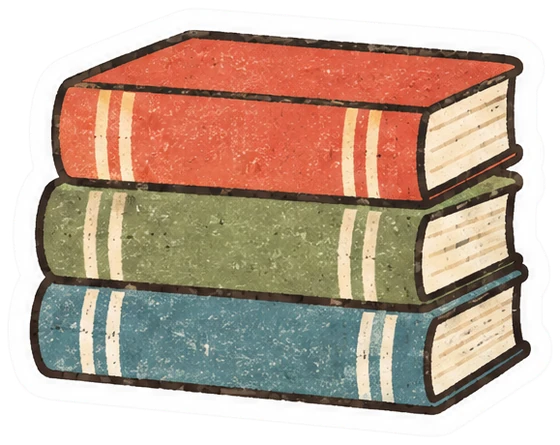
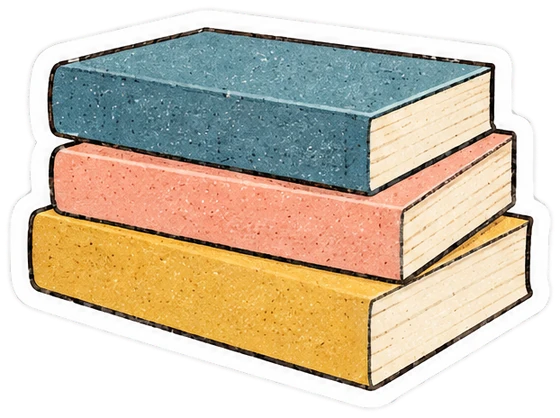
Nine stickers redrawn with a modern look
Laptop, tablet and watch with dark glowing screens (original aurora wallpapers, activity rings), aluminium headphones, a podcast mic on a boom arm, a running shoe, a leather shoulder bag, plain-covered books, and a person looking at a large gestural painting in a gallery. Same names, so stickers already on a page show the new drawing.

diff --git a/src/outlines.ts b/src/outlines.ts
@@ -1,4 +1,4 @@
 /* Made by scripts/sticker-outlines.py from assets/stickers: each sticker's width over height, and for 24 bands
    from top to bottom where it starts and ends across (fractions of its width), null where the band is empty.
    The words on a page wrap around this outline. */
-export const OUTLINES: Record<string, { a: number; rows: ([number, number] | null)[] }> = {"artwall":{"a":0.845,"rows":[[0.755,0.975],[0.055,0.983],[0.019,0.983],[0.017,0.983],[0.017,0.983],[0.017,0.983],[0.017,0.983],[0.017,0.983],[0.017,0.983],[0.017,0.983],[0.019,0.983],[0.019,0.983],[0.017,0.983],[0.019,0.983],[0.017,0.983],[0.017,0.983],[0.017,0.983],[0.017,0.983],[0.019,0.983],[0.019,0.983],[0.017,0.983],[0.019,0.983],[0.063,0.983],[0.474,0.977]]},"avotoast":{"a":1.239,"rows":[[0.532,0.704],[0.436,0.764],[0.314,0.793],[0.257,0.802],[0.209,0.836],[0.157,0.871],[0.13,0.895],[0.093,0.916],[0.057,0.934],[0.038,0.959],[0.029,0.977],[0.023,0.986],[0.018,0.988],[0.012,0.988],[0.012,0.984],[0.014,0.98],[0.023,0.975],[0.043,0.961],[0.073,0.921],[0.089,0.859],[0.107,0.732],[0.139,0.636],[0.195,0.539],[0.25,0.439]]},"bicycle":{"a":1.356,"rows":[[0.573,0.698],[0.504,0.716],[0.495,0.882],[0.495,0.884],[0.289,0.884],[0.241,0.879],[0.234,0.873],[0.234,0.868],[0.114,0.864],[0.071,0.893],[0.046,0.93],[0.027,0.952],[0.014,0.968],[0.011,0.98],[0.014,0.988],[0.011,0.989],[0.011,0.989],[0.011,0.989],[0.016,0.984],[0.023,0.977],[0.038,0.962],[0.059,0.945],[0.088,0.916],[0.139,0.866]]},"books":{"a":1.258,"rows":[[0.286,0.571],[0.198,0.934],[0.12,0.97],[0.075,0.973],[0.061,0.971],[0.054,0.959],[0.052,0.959],[0.052,0.971],[0.054,0.971],[0.039,0.973],[0.029,0.973],[0.023,0.962],[0.023,0.962],[0.023,0.979],[0.027,0.982],[0.021,0.982],[0.014,0.97],[0.012,0.98],[0.014,0.986],[0.016,0.986],[0.025,0.973],[0.045,0.927],[0.216,0.879],[0.571,0.827]]},"bust":{"a":0.629,"rows":[[0.33,0.733],[0.222,0.832],[0.151,0.895],[0.102,0.94],[0.051,0.974],[0.04,0.977],[0.04,0.974],[0.023,0.963],[0.023,0.96],[0.037,0.906],[0.062,0.875],[0.094,0.827],[0.119,0.798],[0.179,0.909],[0.222,0.96],[0.151,0.966],[0.116,0.963],[0.114,0.938],[0.119,0.892],[0.156,0.875],[0.168,0.875],[0.168,0.875],[0.168,0.875],[0.19,0.841]]},"cap":{"a":1.261,"rows":[[0.509,0.621],[0.427,0.746],[0.35,0.811],[0.302,0.854],[0.27,0.884],[0.245,0.911],[0.225,0.93],[0.211,0.948],[0.2,0.959],[0.193,0.97],[0.186,0.975],[0.18,0.979],[0.177,0.982],[0.175,0.986],[0.141,0.986],[0.105,0.986],[0.075,0.98],[0.046,0.932],[0.021,0.779],[0.014,0.757],[0.014,0.73],[0.021,0.702],[0.368,0.666],[0.434,0.614]]},"chunky":{"a":1.569,"rows":[[0.468,0.827],[0.438,0.854],[0.414,0.866],[0.389,0.871],[0.355,0.873],[0.318,0.88],[0.286,0.888],[0.245,0.898],[0.216,0.902],[0.152,0.921],[0.091,0.93],[0.055,0.952],[0.036,0.968],[0.02,0.979],[0.014,0.986],[0.012,0.988],[0.012,0.988],[0.016,0.986],[0.027,0.977],[0.048,0.957],[0.086,0.929],[0.141,0.88],[0.196,0.777],[0.296,0.532]]},"concert":{"a":0.786,"rows":[[0.405,0.866],[0.364,0.895],[0.355,0.902],[0.355,0.905],[0.355,0.907],[0.314,0.916],[0.295,0.964],[0.275,0.97],[0.245,0.966],[0.232,0.98],[0.218,0.984],[0.193,0.982],[0.18,0.98],[0.177,0.98],[0.18,0.977],[0.177,0.977],[0.159,0.961],[0.105,0.9],[0.073,0.82],[0.041,0.666],[0.016,0.607],[0.016,0.539],[0.05,0.532],[0.277,0.509]]},"controller":{"a":1.462,"rows":[[0.239,0.766],[0.188,0.827],[0.168,0.843],[0.134,0.871],[0.111,0.895],[0.096,0.911],[0.084,0.923],[0.075,0.932],[0.066,0.941],[0.057,0.948],[0.048,0.955],[0.043,0.962],[0.034,0.968],[0.029,0.973],[0.023,0.979],[0.018,0.982],[0.014,0.986],[0.012,0.988],[0.011,0.988],[0.012,0.986],[0.016,0.98],[0.025,0.971],[0.041,0.954],[0.073,0.92]]},"croissant":{"a":1.44,"rows":[[0.459,0.625],[0.391,0.679],[0.35,0.709],[0.296,0.723],[0.25,0.77],[0.211,0.793],[0.177,0.838],[0.152,0.857],[0.123,0.871],[0.095,0.904],[0.071,0.921],[0.055,0.932],[0.045,0.955],[0.041,0.971],[0.041,0.982],[0.025,0.988],[0.016,0.988],[0.014,0.986],[0.014,0.975],[0.02,0.957],[0.034,0.911],[0.043,0.516],[0.064,0.275],[0.104,0.241]]},"earbuds":{"a":1.047,"rows":[[0.242,0.608],[0.162,0.824],[0.117,0.901],[0.097,0.937],[0.085,0.962],[0.083,0.976],[0.083,0.984],[0.089,0.984],[0.069,0.984],[0.03,0.978],[0.018,0.964],[0.016,0.941],[0.016,0.935],[0.016,0.935],[0.018,0.933],[0.02,0.931],[0.022,0.929],[0.022,0.927],[0.032,0.923],[0.046,0.915],[0.075,0.903],[0.117,0.881],[0.224,0.846],[0.446,0.786]]},"egg":{"a":1.067,"rows":[[0.366,0.561],[0.304,0.704],[0.236,0.734],[0.195,0.841],[0.127,0.888],[0.093,0.912],[0.075,0.921],[0.059,0.936],[0.046,0.959],[0.039,0.968],[0.023,0.973],[0.016,0.984],[0.014,0.986],[0.02,0.986],[0.034,0.977],[0.045,0.964],[0.046,0.941],[0.057,0.9],[0.077,0.882],[0.104,0.862],[0.123,0.834],[0.164,0.762],[0.246,0.705],[0.395,0.584]]},"gallery":{"a":1.637,"rows":[[0.184,0.391],[0.121,0.475],[0.096,0.536],[0.082,0.58],[0.079,0.62],[0.079,0.654],[0.08,0.684],[0.084,0.727],[0.086,0.793],[0.088,0.921],[0.062,0.93],[0.039,0.932],[0.03,0.93],[0.023,0.93],[0.016,0.932],[0.012,0.954],[0.012,0.973],[0.011,0.986],[0.012,0.989],[0.016,0.989],[0.014,0.989],[0.018,0.986],[0.029,0.984],[0.093,0.466]]},"headset":{"a":0.921,"rows":[[0.395,0.694],[0.31,0.775],[0.252,0.828],[0.209,0.862],[0.178,0.888],[0.153,0.909],[0.132,0.922],[0.118,0.932],[0.105,0.938],[0.101,0.942],[0.079,0.942],[0.037,0.94],[0.021,0.961],[0.014,0.979],[0.014,0.986],[0.017,0.986],[0.023,0.983],[0.033,0.971],[0.047,0.957],[0.062,0.938],[0.081,0.917],[0.11,0.89],[0.153,0.857],[0.572,0.802]]},"icedlatte":{"a":0.666,"rows":[[0.501,0.694],[0.483,0.705],[0.469,0.702],[0.456,0.686],[0.343,0.673],[0.105,0.898],[0.04,0.96],[0.021,0.976],[0.019,0.979],[0.021,0.973],[0.078,0.914],[0.086,0.906],[0.094,0.898],[0.102,0.89],[0.11,0.879],[0.118,0.871],[0.126,0.863],[0.134,0.855],[0.142,0.845],[0.15,0.836],[0.158,0.828],[0.172,0.818],[0.185,0.802],[0.241,0.735]]},"key":{"a":0.786,"rows":[[0.629,0.872],[0.554,0.927],[0.515,0.957],[0.43,0.975],[0.352,0.979],[0.311,0.982],[0.279,0.975],[0.261,0.961],[0.254,0.938],[0.254,0.902],[0.254,0.84],[0.247,0.831],[0.236,0.808],[0.201,0.767],[0.169,0.673],[0.149,0.551],[0.119,0.481],[0.085,0.451],[0.048,0.4],[0.021,0.387],[0.018,0.35],[0.021,0.336],[0.023,0.293],[0.043,0.252]]},"lamp":{"a":0.855,"rows":[[0.516,0.681],[0.474,0.714],[0.395,0.833],[0.338,0.912],[0.269,0.958],[0.198,0.983],[0.134,0.985],[0.04,0.979],[0.017,0.95],[0.015,0.896],[0.021,0.825],[0.069,0.733],[0.094,0.28],[0.117,0.301],[0.138,0.326],[0.165,0.347],[0.188,0.372],[0.211,0.443],[0.061,0.589],[0.027,0.614],[0.023,0.616],[0.023,0.616],[0.029,0.608],[0.077,0.545]]},"laptop":{"a":1.22,"rows":[[0.529,0.72],[0.32,0.734],[0.118,0.741],[0.023,0.745],[0.012,0.75],[0.012,0.754],[0.014,0.759],[0.021,0.764],[0.027,0.768],[0.034,0.773],[0.039,0.779],[0.045,0.784],[0.052,0.795],[0.059,0.839],[0.064,0.884],[0.071,0.932],[0.077,0.975],[0.084,0.988],[0.091,0.988],[0.121,0.98],[0.154,0.916],[0.186,0.754],[0.216,0.588],[0.248,0.425]]},"matcha":{"a":0.616,"rows":[[0.504,0.699],[0.484,0.71],[0.47,0.704],[0.452,0.69],[0.197,0.82],[0.064,0.936],[0.041,0.959],[0.02,0.98],[0.02,0.977],[0.052,0.933],[0.078,0.919],[0.084,0.91],[0.093,0.901],[0.099,0.893],[0.104,0.887],[0.113,0.878],[0.119,0.87],[0.125,0.864],[0.133,0.855],[0.139,0.846],[0.145,0.841],[0.157,0.823],[0.174,0.812],[0.232,0.748]]},"mic":{"a":0.607,"rows":[[0.374,0.715],[0.285,0.794],[0.226,0.841],[0.194,0.865],[0.185,0.876],[0.182,0.876],[0.185,0.871],[0.2,0.859],[0.188,0.826],[0.165,0.762],[0.144,0.65],[0.121,0.597],[0.097,0.565],[0.079,0.529],[0.056,0.497],[0.035,0.885],[0.024,0.947],[0.024,0.974],[0.035,0.979],[0.038,0.976],[0.047,0.941],[0.05,0.553],[0.071,0.506],[0.124,0.432]]},"mirrorless":{"a":1.451,"rows":[[0.136,0.87],[0.077,0.952],[0.039,0.973],[0.027,0.98],[0.016,0.982],[0.012,0.984],[0.014,0.984],[0.014,0.986],[0.014,0.986],[0.014,0.986],[0.014,0.986],[0.014,0.986],[0.014,0.986],[0.014,0.986],[0.014,0.986],[0.014,0.986],[0.014,0.988],[0.014,0.986],[0.014,0.986],[0.014,0.982],[0.018,0.97],[0.029,0.929],[0.055,0.789],[0.107,0.305]]},"phone":{"a":0.736,"rows":[[0.339,0.639],[0.288,0.876],[0.268,0.949],[0.251,0.973],[0.234,0.98],[0.217,0.978],[0.2,0.966],[0.185,0.954],[0.168,0.941],[0.151,0.927],[0.137,0.912],[0.124,0.9],[0.107,0.883],[0.095,0.873],[0.078,0.859],[0.063,0.846],[0.049,0.832],[0.032,0.82],[0.022,0.805],[0.02,0.793],[0.027,0.778],[0.054,0.763],[0.161,0.746],[0.395,0.705]]},"plant":{"a":0.941,"rows":[[0.387,0.562],[0.349,0.626],[0.334,0.687],[0.167,0.858],[0.104,0.909],[0.063,0.935],[0.03,0.953],[0.013,0.964],[0.015,0.973],[0.11,0.979],[0.11,0.985],[0.112,0.987],[0.108,0.983],[0.108,0.844],[0.125,0.841],[0.199,0.835],[0.209,0.814],[0.241,0.791],[0.249,0.782],[0.258,0.77],[0.268,0.761],[0.277,0.751],[0.288,0.736],[0.332,0.681]]},"popcorn":{"a":1.057,"rows":[[0.243,0.396],[0.209,0.53],[0.162,0.57],[0.105,0.6],[0.068,0.655],[0.041,0.67],[0.014,0.688],[0.014,0.691],[0.016,0.689],[0.02,0.68],[0.027,0.889],[0.03,0.929],[0.036,0.934],[0.043,0.948],[0.046,0.95],[0.052,0.961],[0.057,0.971],[0.062,0.984],[0.068,0.986],[0.075,0.98],[0.08,0.959],[0.088,0.87],[0.136,0.764],[0.255,0.659]]},"ramen":{"a":1.204,"rows":[[0.295,0.393],[0.221,0.582],[0.154,0.966],[0.104,0.979],[0.093,0.988],[0.071,0.988],[0.025,0.982],[0.014,0.889],[0.012,0.886],[0.016,0.888],[0.046,0.888],[0.052,0.886],[0.057,0.88],[0.064,0.871],[0.073,0.859],[0.084,0.846],[0.098,0.83],[0.116,0.811],[0.138,0.786],[0.168,0.754],[0.207,0.714],[0.259,0.661],[0.289,0.627],[0.332,0.582]]},"scooter":{"a":0.952,"rows":[[0.169,0.415],[0.158,0.591],[0.159,0.604],[0.188,0.604],[0.272,0.589],[0.261,0.403],[0.25,0.392],[0.238,0.381],[0.229,0.371],[0.218,0.36],[0.206,0.349],[0.197,0.34],[0.178,0.326],[0.165,0.328],[0.152,0.936],[0.141,0.974],[0.088,0.985],[0.051,0.985],[0.026,0.985],[0.015,0.985],[0.013,0.979],[0.015,0.957],[0.03,0.916],[0.066,0.24]]},"suitcase":{"a":0.625,"rows":[[0.314,0.743],[0.294,0.76],[0.291,0.76],[0.303,0.751],[0.303,0.746],[0.137,0.883],[0.06,0.943],[0.034,0.963],[0.026,0.966],[0.026,0.969],[0.023,0.969],[0.023,0.969],[0.023,0.969],[0.023,0.969],[0.023,0.969],[0.023,0.969],[0.026,0.969],[0.023,0.969],[0.023,0.969],[0.026,0.966],[0.023,0.98],[0.023,0.98],[0.034,0.969],[0.594,0.794]]},"sunglasses":{"a":1.958,"rows":[[0.218,0.37],[0.059,0.429],[0.023,0.459],[0.014,0.482],[0.012,0.504],[0.012,0.955],[0.012,0.979],[0.014,0.986],[0.021,0.988],[0.039,0.988],[0.043,0.984],[0.046,0.98],[0.05,0.975],[0.055,0.966],[0.061,0.884],[0.068,0.855],[0.077,0.85],[0.091,0.845],[0.112,0.838],[0.146,0.83],[0.218,0.82],[0.505,0.804],[0.538,0.78],[0.596,0.732]]},"tablet":{"a":0.984,"rows":[[0.178,0.771],[0.158,0.855],[0.149,0.864],[0.142,0.866],[0.132,0.976],[0.127,0.985],[0.118,0.987],[0.111,0.982],[0.102,0.975],[0.094,0.966],[0.087,0.958],[0.078,0.951],[0.073,0.944],[0.065,0.936],[0.056,0.929],[0.047,0.922],[0.04,0.915],[0.033,0.906],[0.024,0.898],[0.016,0.891],[0.013,0.882],[0.016,0.866],[0.042,0.844],[0.379,0.731]]},"takeaway":{"a":0.769,"rows":[[0.228,0.797],[0.131,0.881],[0.109,0.898],[0.061,0.947],[0.034,0.969],[0.022,0.981],[0.019,0.981],[0.027,0.969],[0.08,0.92],[0.065,0.932],[0.065,0.932],[0.068,0.927],[0.075,0.923],[0.08,0.915],[0.087,0.91],[0.094,0.903],[0.099,0.898],[0.104,0.891],[0.114,0.881],[0.15,0.85],[0.16,0.843],[0.165,0.835],[0.184,0.814],[0.266,0.731]]},"tennis":{"a":0.964,"rows":[[0.585,0.844],[0.506,0.907],[0.446,0.943],[0.409,0.965],[0.38,0.978],[0.354,0.983],[0.335,0.983],[0.324,0.981],[0.317,0.972],[0.313,0.961],[0.309,0.943],[0.302,0.919],[0.291,0.883],[0.272,0.841],[0.237,0.852],[0.196,0.893],[0.159,0.911],[0.12,0.919],[0.085,0.919],[0.031,0.913],[0.013,0.894],[0.015,0.856],[0.028,0.219],[0.074,0.198]]},"tote":{"a":0.723,"rows":[[0.393,0.63],[0.346,0.679],[0.316,0.706],[0.294,0.726],[0.272,0.746],[0.252,0.765],[0.24,0.778],[0.084,0.884],[0.059,0.965],[0.057,0.97],[0.057,0.97],[0.059,0.97],[0.059,0.965],[0.057,0.963],[0.047,0.965],[0.04,0.965],[0.035,0.968],[0.03,0.97],[0.025,0.973],[0.017,0.978],[0.017,0.983],[0.025,0.983],[0.069,0.97],[0.449,0.926]]},"tumbler":{"a":0.6,"rows":[[0.301,0.503],[0.289,0.509],[0.283,0.506],[0.143,0.619],[0.033,0.708],[0.024,0.714],[0.021,0.902],[0.021,0.958],[0.021,0.976],[0.021,0.976],[0.021,0.976],[0.021,0.976],[0.021,0.976],[0.024,0.976],[0.024,0.976],[0.027,0.961],[0.03,0.917],[0.045,0.783],[0.08,0.67],[0.083,0.664],[0.089,0.658],[0.095,0.649],[0.104,0.643],[0.146,0.589]]},"watch":{"a":0.816,"rows":[[0.372,0.766],[0.293,0.821],[0.247,0.853],[0.21,0.875],[0.133,0.897],[0.077,0.919],[0.05,0.941],[0.037,0.963],[0.033,0.98],[0.031,0.982],[0.028,0.98],[0.024,0.965],[0.022,0.954],[0.02,0.954],[0.018,0.952],[0.018,0.947],[0.024,0.941],[0.039,0.928],[0.079,0.917],[0.16,0.899],[0.186,0.877],[0.219,0.849],[0.258,0.812],[0.326,0.746]]},"window":{"a":0.812,"rows":[[0.27,0.76],[0.171,0.848],[0.114,0.897],[0.081,0.927],[0.055,0.949],[0.037,0.963],[0.029,0.971],[0.022,0.976],[0.018,0.98],[0.018,0.982],[0.015,0.982],[0.015,0.982],[0.015,0.982],[0.015,0.982],[0.018,0.982],[0.018,0.982],[0.02,0.98],[0.024,0.978],[0.031,0.969],[0.042,0.958],[0.059,0.938],[0.088,0.908],[0.134,0.862],[0.222,0.776]]},"yogamat":{"a":1.478,"rows":[[0.482,0.596],[0.438,0.638],[0.409,0.659],[0.384,0.673],[0.362,0.688],[0.339,0.702],[0.318,0.716],[0.296,0.921],[0.275,0.948],[0.123,0.964],[0.066,0.975],[0.041,0.982],[0.029,0.986],[0.018,0.986],[0.014,0.988],[0.012,0.986],[0.012,0.98],[0.014,0.971],[0.018,0.957],[0.025,0.921],[0.034,0.802],[0.048,0.629],[0.068,0.441],[0.1,0.252]]}};
+export const OUTLINES: Record<string, { a: number; rows: ([number, number] | null)[] }> = {"artwall":{"a":0.802,"rows":[[0.318,0.955],[0.053,0.958],[0.049,0.958],[0.049,0.96],[0.049,0.958],[0.049,0.96],[0.047,0.958],[0.047,0.96],[0.047,0.96],[0.047,0.958],[0.047,0.96],[0.047,0.96],[0.047,0.96],[0.047,0.96],[0.047,0.96],[0.042,0.96],[0.02,0.969],[0.018,0.982],[0.016,0.984],[0.016,0.984],[0.013,0.984],[0.013,0.982],[0.013,0.982],[0.027,0.964]]},"avotoast":{"a":1.239,"rows":[[0.532,0.704],[0.436,0.764],[0.314,0.793],[0.257,0.802],[0.209,0.836],[0.157,0.871],[0.13,0.895],[0.093,0.916],[0.057,0.934],[0.038,0.959],[0.029,0.977],[0.023,0.986],[0.018,0.988],[0.012,0.988],[0.012,0.984],[0.014,0.98],[0.023,0.975],[0.043,0.961],[0.073,0.921],[0.089,0.859],[0.107,0.732],[0.139,0.636],[0.195,0.539],[0.25,0.439]]},"bicycle":{"a":1.356,"rows":[[0.573,0.698],[0.504,0.716],[0.495,0.882],[0.495,0.884],[0.289,0.884],[0.241,0.879],[0.234,0.873],[0.234,0.868],[0.114,0.864],[0.071,0.893],[0.046,0.93],[0.027,0.952],[0.014,0.968],[0.011,0.98],[0.014,0.988],[0.011,0.989],[0.011,0.989],[0.011,0.989],[0.016,0.984],[0.023,0.977],[0.038,0.962],[0.059,0.945],[0.088,0.916],[0.139,0.866]]},"books":{"a":1.34,"rows":[[0.289,0.511],[0.162,0.743],[0.07,0.909],[0.054,0.92],[0.048,0.92],[0.046,0.918],[0.046,0.95],[0.05,0.957],[0.054,0.959],[0.05,0.959],[0.05,0.957],[0.02,0.982],[0.012,0.988],[0.012,0.988],[0.012,0.984],[0.012,0.982],[0.014,0.986],[0.025,0.986],[0.075,0.966],[0.171,0.916],[0.275,0.862],[0.377,0.814],[0.486,0.761],[0.589,0.711]]},"bust":{"a":0.629,"rows":[[0.33,0.733],[0.222,0.832],[0.151,0.895],[0.102,0.94],[0.051,0.974],[0.04,0.977],[0.04,0.974],[0.023,0.963],[0.023,0.96],[0.037,0.906],[0.062,0.875],[0.094,0.827],[0.119,0.798],[0.179,0.909],[0.222,0.96],[0.151,0.966],[0.116,0.963],[0.114,0.938],[0.119,0.892],[0.156,0.875],[0.168,0.875],[0.168,0.875],[0.168,0.875],[0.19,0.841]]},"cap":{"a":1.261,"rows":[[0.509,0.621],[0.427,0.746],[0.35,0.811],[0.302,0.854],[0.27,0.884],[0.245,0.911],[0.225,0.93],[0.211,0.948],[0.2,0.959],[0.193,0.97],[0.186,0.975],[0.18,0.979],[0.177,0.982],[0.175,0.986],[0.141,0.986],[0.105,0.986],[0.075,0.98],[0.046,0.932],[0.021,0.779],[0.014,0.757],[0.014,0.73],[0.021,0.702],[0.368,0.666],[0.434,0.614]]},"chunky":{"a":1.755,"rows":[[0.548,0.618],[0.523,0.643],[0.502,0.884],[0.473,0.896],[0.441,0.9],[0.407,0.902],[0.366,0.905],[0.325,0.914],[0.275,0.921],[0.193,0.929],[0.061,0.93],[0.032,0.941],[0.02,0.954],[0.012,0.968],[0.012,0.982],[0.012,0.988],[0.018,0.988],[0.029,0.988],[0.048,0.98],[0.073,0.97],[0.107,0.955],[0.15,0.93],[0.198,0.898],[0.271,0.832]]},"concert":{"a":0.786,"rows":[[0.405,0.866],[0.364,0.895],[0.355,0.902],[0.355,0.905],[0.355,0.907],[0.314,0.916],[0.295,0.964],[0.275,0.97],[0.245,0.966],[0.232,0.98],[0.218,0.984],[0.193,0.982],[0.18,0.98],[0.177,0.98],[0.18,0.977],[0.177,0.977],[0.159,0.961],[0.105,0.9],[0.073,0.82],[0.041,0.666],[0.016,0.607],[0.016,0.539],[0.05,0.532],[0.277,0.509]]},"controller":{"a":1.462,"rows":[[0.239,0.766],[0.188,0.827],[0.168,0.843],[0.134,0.871],[0.111,0.895],[0.096,0.911],[0.084,0.923],[0.075,0.932],[0.066,0.941],[0.057,0.948],[0.048,0.955],[0.043,0.962],[0.034,0.968],[0.029,0.973],[0.023,0.979],[0.018,0.982],[0.014,0.986],[0.012,0.988],[0.011,0.988],[0.012,0.986],[0.016,0.98],[0.025,0.971],[0.041,0.954],[0.073,0.92]]},"croissant":{"a":1.44,"rows":[[0.459,0.625],[0.391,0.679],[0.35,0.709],[0.296,0.723],[0.25,0.77],[0.211,0.793],[0.177,0.838],[0.152,0.857],[0.123,0.871],[0.095,0.904],[0.071,0.921],[0.055,0.932],[0.045,0.955],[0.041,0.971],[0.041,0.982],[0.025,0.988],[0.016,0.988],[0.014,0.986],[0.014,0.975],[0.02,0.957],[0.034,0.911],[0.043,0.516],[0.064,0.275],[0.104,0.241]]},"earbuds":{"a":1.047,"rows":[[0.242,0.608],[0.162,0.824],[0.117,0.901],[0.097,0.937],[0.085,0.962],[0.083,0.976],[0.083,0.984],[0.089,0.984],[0.069,0.984],[0.03,0.978],[0.018,0.964],[0.016,0.941],[0.016,0.935],[0.016,0.935],[0.018,0.933],[0.02,0.931],[0.022,0.929],[0.022,0.927],[0.032,0.923],[0.046,0.915],[0.075,0.903],[0.117,0.881],[0.224,0.846],[0.446,0.786]]},"egg":{"a":1.067,"rows":[[0.366,0.561],[0.304,0.704],[0.236,0.734],[0.195,0.841],[0.127,0.888],[0.093,0.912],[0.075,0.921],[0.059,0.936],[0.046,0.959],[0.039,0.968],[0.023,0.973],[0.016,0.984],[0.014,0.986],[0.02,0.986],[0.034,0.977],[0.045,0.964],[0.046,0.941],[0.057,0.9],[0.077,0.882],[0.104,0.862],[0.123,0.834],[0.164,0.762],[0.246,0.705],[0.395,0.584]]},"gallery":{"a":1.637,"rows":[[0.184,0.391],[0.121,0.475],[0.096,0.536],[0.082,0.58],[0.079,0.62],[0.079,0.654],[0.08,0.684],[0.084,0.727],[0.086,0.793],[0.088,0.921],[0.062,0.93],[0.039,0.932],[0.03,0.93],[0.023,0.93],[0.016,0.932],[0.012,0.954],[0.012,0.973],[0.011,0.986],[0.012,0.989],[0.016,0.989],[0.014,0.989],[0.018,0.986],[0.029,0.984],[0.093,0.466]]},"headset":{"a":0.911,"rows":[[0.353,0.696],[0.271,0.769],[0.22,0.816],[0.18,0.849],[0.149,0.876],[0.124,0.892],[0.116,0.902],[0.108,0.916],[0.092,0.927],[0.082,0.933],[0.078,0.933],[0.075,0.931],[0.033,0.969],[0.016,0.984],[0.014,0.986],[0.016,0.982],[0.025,0.973],[0.039,0.961],[0.057,0.943],[0.078,0.925],[0.104,0.906],[0.133,0.882],[0.175,0.851],[0.239,0.798]]},"icedlatte":{"a":0.666,"rows":[[0.501,0.694],[0.483,0.705],[0.469,0.702],[0.456,0.686],[0.343,0.673],[0.105,0.898],[0.04,0.96],[0.021,0.976],[0.019,0.979],[0.021,0.973],[0.078,0.914],[0.086,0.906],[0.094,0.898],[0.102,0.89],[0.11,0.879],[0.118,0.871],[0.126,0.863],[0.134,0.855],[0.142,0.845],[0.15,0.836],[0.158,0.828],[0.172,0.818],[0.185,0.802],[0.241,0.735]]},"key":{"a":0.786,"rows":[[0.629,0.872],[0.554,0.927],[0.515,0.957],[0.43,0.975],[0.352,0.979],[0.311,0.982],[0.279,0.975],[0.261,0.961],[0.254,0.938],[0.254,0.902],[0.254,0.84],[0.247,0.831],[0.236,0.808],[0.201,0.767],[0.169,0.673],[0.149,0.551],[0.119,0.481],[0.085,0.451],[0.048,0.4],[0.021,0.387],[0.018,0.35],[0.021,0.336],[0.023,0.293],[0.043,0.252]]},"lamp":{"a":0.855,"rows":[[0.516,0.681],[0.474,0.714],[0.395,0.833],[0.338,0.912],[0.269,0.958],[0.198,0.983],[0.134,0.985],[0.04,0.979],[0.017,0.95],[0.015,0.896],[0.021,0.825],[0.069,0.733],[0.094,0.28],[0.117,0.301],[0.138,0.326],[0.165,0.347],[0.188,0.372],[0.211,0.443],[0.061,0.589],[0.027,0.614],[0.023,0.616],[0.023,0.616],[0.029,0.608],[0.077,0.545]]},"laptop":{"a":1.353,"rows":[[0.396,0.641],[0.084,0.654],[0.02,0.659],[0.012,0.664],[0.012,0.671],[0.016,0.677],[0.021,0.684],[0.025,0.689],[0.03,0.695],[0.034,0.7],[0.039,0.707],[0.045,0.712],[0.05,0.718],[0.055,0.725],[0.059,0.798],[0.064,0.888],[0.068,0.964],[0.073,0.988],[0.077,0.989],[0.093,0.986],[0.143,0.911],[0.191,0.759],[0.245,0.607],[0.295,0.457]]},"matcha":{"a":0.616,"rows":[[0.504,0.699],[0.484,0.71],[0.47,0.704],[0.452,0.69],[0.197,0.82],[0.064,0.936],[0.041,0.959],[0.02,0.98],[0.02,0.977],[0.052,0.933],[0.078,0.919],[0.084,0.91],[0.093,0.901],[0.099,0.893],[0.104,0.887],[0.113,0.878],[0.119,0.87],[0.125,0.864],[0.133,0.855],[0.139,0.846],[0.145,0.841],[0.157,0.823],[0.174,0.812],[0.232,0.748]]},"mic":{"a":0.839,"rows":[[0.098,0.911],[0.062,0.974],[0.055,0.985],[0.055,0.985],[0.055,0.974],[0.055,0.957],[0.049,0.943],[0.049,0.93],[0.019,0.915],[0.017,0.902],[0.017,0.887],[0.019,0.872],[0.051,0.857],[0.053,0.843],[0.072,0.836],[0.094,0.845],[0.174,0.857],[0.532,0.857],[0.543,0.855],[0.551,0.855],[0.545,0.847],[0.547,0.789],[0.587,0.766],[0.594,0.757]]},"mirrorless":{"a":1.451,"rows":[[0.136,0.87],[0.077,0.952],[0.039,0.973],[0.027,0.98],[0.016,0.982],[0.012,0.984],[0.014,0.984],[0.014,0.986],[0.014,0.986],[0.014,0.986],[0.014,0.986],[0.014,0.986],[0.014,0.986],[0.014,0.986],[0.014,0.986],[0.014,0.986],[0.014,0.988],[0.014,0.986],[0.014,0.986],[0.014,0.982],[0.018,0.97],[0.029,0.929],[0.055,0.789],[0.107,0.305]]},"phone":{"a":0.736,"rows":[[0.339,0.639],[0.288,0.876],[0.268,0.949],[0.251,0.973],[0.234,0.98],[0.217,0.978],[0.2,0.966],[0.185,0.954],[0.168,0.941],[0.151,0.927],[0.137,0.912],[0.124,0.9],[0.107,0.883],[0.095,0.873],[0.078,0.859],[0.063,0.846],[0.049,0.832],[0.032,0.82],[0.022,0.805],[0.02,0.793],[0.027,0.778],[0.054,0.763],[0.161,0.746],[0.395,0.705]]},"plant":{"a":0.941,"rows":[[0.387,0.562],[0.349,0.626],[0.334,0.687],[0.167,0.858],[0.104,0.909],[0.063,0.935],[0.03,0.953],[0.013,0.964],[0.015,0.973],[0.11,0.979],[0.11,0.985],[0.112,0.987],[0.108,0.983],[0.108,0.844],[0.125,0.841],[0.199,0.835],[0.209,0.814],[0.241,0.791],[0.249,0.782],[0.258,0.77],[0.268,0.761],[0.277,0.751],[0.288,0.736],[0.332,0.681]]},"popcorn":{"a":1.057,"rows":[[0.243,0.396],[0.209,0.53],[0.162,0.57],[0.105,0.6],[0.068,0.655],[0.041,0.67],[0.014,0.688],[0.014,0.691],[0.016,0.689],[0.02,0.68],[0.027,0.889],[0.03,0.929],[0.036,0.934],[0.043,0.948],[0.046,0.95],[0.052,0.961],[0.057,0.971],[0.062,0.984],[0.068,0.986],[0.075,0.98],[0.08,0.959],[0.088,0.87],[0.136,0.764],[0.255,0.659]]},"ramen":{"a":1.204,"rows":[[0.295,0.393],[0.221,0.582],[0.154,0.966],[0.104,0.979],[0.093,0.988],[0.071,0.988],[0.025,0.982],[0.014,0.889],[0.012,0.886],[0.016,0.888],[0.046,0.888],[0.052,0.886],[0.057,0.88],[0.064,0.871],[0.073,0.859],[0.084,0.846],[0.098,0.83],[0.116,0.811],[0.138,0.786],[0.168,0.754],[0.207,0.714],[0.259,0.661],[0.289,0.627],[0.332,0.582]]},"scooter":{"a":0.952,"rows":[[0.169,0.415],[0.158,0.591],[0.159,0.604],[0.188,0.604],[0.272,0.589],[0.261,0.403],[0.25,0.392],[0.238,0.381],[0.229,0.371],[0.218,0.36],[0.206,0.349],[0.197,0.34],[0.178,0.326],[0.165,0.328],[0.152,0.936],[0.141,0.974],[0.088,0.985],[0.051,0.985],[0.026,0.985],[0.015,0.985],[0.013,0.979],[0.015,0.957],[0.03,0.916],[0.066,0.24]]},"suitcase":{"a":0.625,"rows":[[0.314,0.743],[0.294,0.76],[0.291,0.76],[0.303,0.751],[0.303,0.746],[0.137,0.883],[0.06,0.943],[0.034,0.963],[0.026,0.966],[0.026,0.969],[0.023,0.969],[0.023,0.969],[0.023,0.969],[0.023,0.969],[0.023,0.969],[0.023,0.969],[0.026,0.969],[0.023,0.969],[0.023,0.969],[0.026,0.966],[0.023,0.98],[0.023,0.98],[0.034,0.969],[0.594,0.794]]},"sunglasses":{"a":1.958,"rows":[[0.218,0.37],[0.059,0.429],[0.023,0.459],[0.014,0.482],[0.012,0.504],[0.012,0.955],[0.012,0.979],[0.014,0.986],[0.021,0.988],[0.039,0.988],[0.043,0.984],[0.046,0.98],[0.05,0.975],[0.055,0.966],[0.061,0.884],[0.068,0.855],[0.077,0.85],[0.091,0.845],[0.112,0.838],[0.146,0.83],[0.218,0.82],[0.505,0.804],[0.538,0.78],[0.596,0.732]]},"tablet":{"a":0.896,"rows":[[0.315,0.751],[0.046,0.777],[0.018,0.892],[0.014,0.92],[0.016,0.926],[0.02,0.932],[0.024,0.936],[0.03,0.94],[0.034,0.946],[0.038,0.95],[0.042,0.954],[0.046,0.958],[0.05,0.964],[0.054,0.968],[0.058,0.972],[0.062,0.976],[0.066,0.982],[0.07,0.984],[0.076,0.984],[0.078,0.98],[0.082,0.972],[0.088,0.948],[0.094,0.831],[0.118,0.512]]},"takeaway":{"a":0.769,"rows":[[0.228,0.797],[0.131,0.881],[0.109,0.898],[0.061,0.947],[0.034,0.969],[0.022,0.981],[0.019,0.981],[0.027,0.969],[0.08,0.92],[0.065,0.932],[0.065,0.932],[0.068,0.927],[0.075,0.923],[0.08,0.915],[0.087,0.91],[0.094,0.903],[0.099,0.898],[0.104,0.891],[0.114,0.881],[0.15,0.85],[0.16,0.843],[0.165,0.835],[0.184,0.814],[0.266,0.731]]},"tennis":{"a":0.964,"rows":[[0.585,0.844],[0.506,0.907],[0.446,0.943],[0.409,0.965],[0.38,0.978],[0.354,0.983],[0.335,0.983],[0.324,0.981],[0.317,0.972],[0.313,0.961],[0.309,0.943],[0.302,0.919],[0.291,0.883],[0.272,0.841],[0.237,0.852],[0.196,0.893],[0.159,0.911],[0.12,0.919],[0.085,0.919],[0.031,0.913],[0.013,0.894],[0.015,0.856],[0.028,0.219],[0.074,0.198]]},"tote":{"a":0.971,"rows":[[0.467,0.689],[0.401,0.732],[0.347,0.763],[0.298,0.787],[0.246,0.82],[0.184,0.842],[0.147,0.847],[0.119,0.866],[0.108,0.884],[0.105,0.897],[0.092,0.912],[0.081,0.923],[0.07,0.934],[0.059,0.945],[0.05,0.956],[0.039,0.965],[0.029,0.974],[0.024,0.983],[0.018,0.987],[0.013,0.987],[0.013,0.971],[0.018,0.864],[0.042,0.678],[0.154,0.491]]},"tumbler":{"a":0.6,"rows":[[0.301,0.503],[0.289,0.509],[0.283,0.506],[0.143,0.619],[0.033,0.708],[0.024,0.714],[0.021,0.902],[0.021,0.958],[0.021,0.976],[0.021,0.976],[0.021,0.976],[0.021,0.976],[0.021,0.976],[0.024,0.976],[0.024,0.976],[0.027,0.961],[0.03,0.917],[0.045,0.783],[0.08,0.67],[0.083,0.664],[0.089,0.658],[0.095,0.649],[0.104,0.643],[0.146,0.589]]},"watch":{"a":0.8,"rows":[[0.339,0.77],[0.268,0.824],[0.225,0.859],[0.196,0.886],[0.141,0.911],[0.071,0.929],[0.042,0.944],[0.027,0.973],[0.02,0.982],[0.018,0.982],[0.018,0.973],[0.018,0.962],[0.018,0.962],[0.018,0.964],[0.02,0.964],[0.02,0.962],[0.022,0.955],[0.031,0.946],[0.054,0.935],[0.1,0.92],[0.17,0.902],[0.201,0.873],[0.241,0.837],[0.301,0.783]]},"window":{"a":0.812,"rows":[[0.27,0.76],[0.171,0.848],[0.114,0.897],[0.081,0.927],[0.055,0.949],[0.037,0.963],[0.029,0.971],[0.022,0.976],[0.018,0.98],[0.018,0.982],[0.015,0.982],[0.015,0.982],[0.015,0.982],[0.015,0.982],[0.018,0.982],[0.018,0.982],[0.02,0.98],[0.024,0.978],[0.031,0.969],[0.042,0.958],[0.059,0.938],[0.088,0.908],[0.134,0.862],[0.222,0.776]]},"yogamat":{"a":1.478,"rows":[[0.482,0.596],[0.438,0.638],[0.409,0.659],[0.384,0.673],[0.362,0.688],[0.339,0.702],[0.318,0.716],[0.296,0.921],[0.275,0.948],[0.123,0.964],[0.066,0.975],[0.041,0.982],[0.029,0.986],[0.018,0.986],[0.014,0.988],[0.012,0.986],[0.012,0.98],[0.014,0.971],[0.018,0.957],[0.025,0.921],[0.034,0.802],[0.048,0.629],[0.068,0.441],[0.1,0.252]]}};
